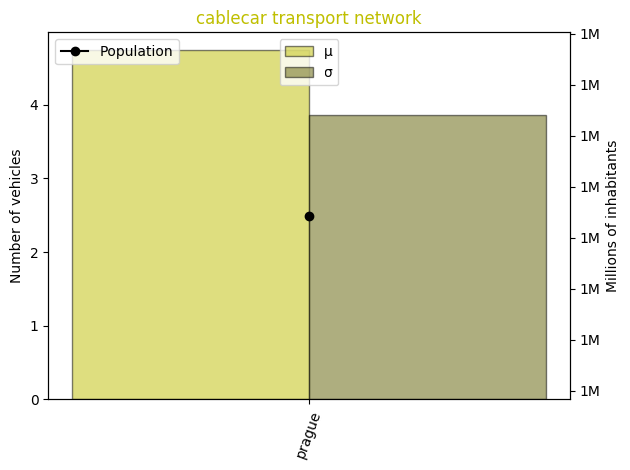
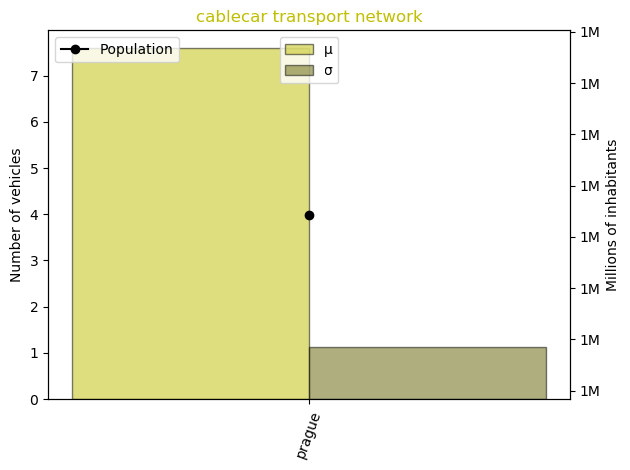
removed 0 from compare plots frequency analysis

diff --git a/compare_frequencies_info.py b/compare_frequencies_info.py
@@ -21,8 +21,8 @@ if __name__ == '__main__':
             type = int(type_of_transport)
             if type not in means and type not in stdev:
                 means[type], stdev[type] = {}, {}
-            # values = [x for x in dict_values.values() if x > 0]
-            values = dict_hour_freq.values()
+            values = [x for x in dict_hour_freq.values() if x > 0]
+            # values = dict_hour_freq.values()
             means[type][city] = st.mean(values)
             stdev[type][city] = st.stdev(values)
 
